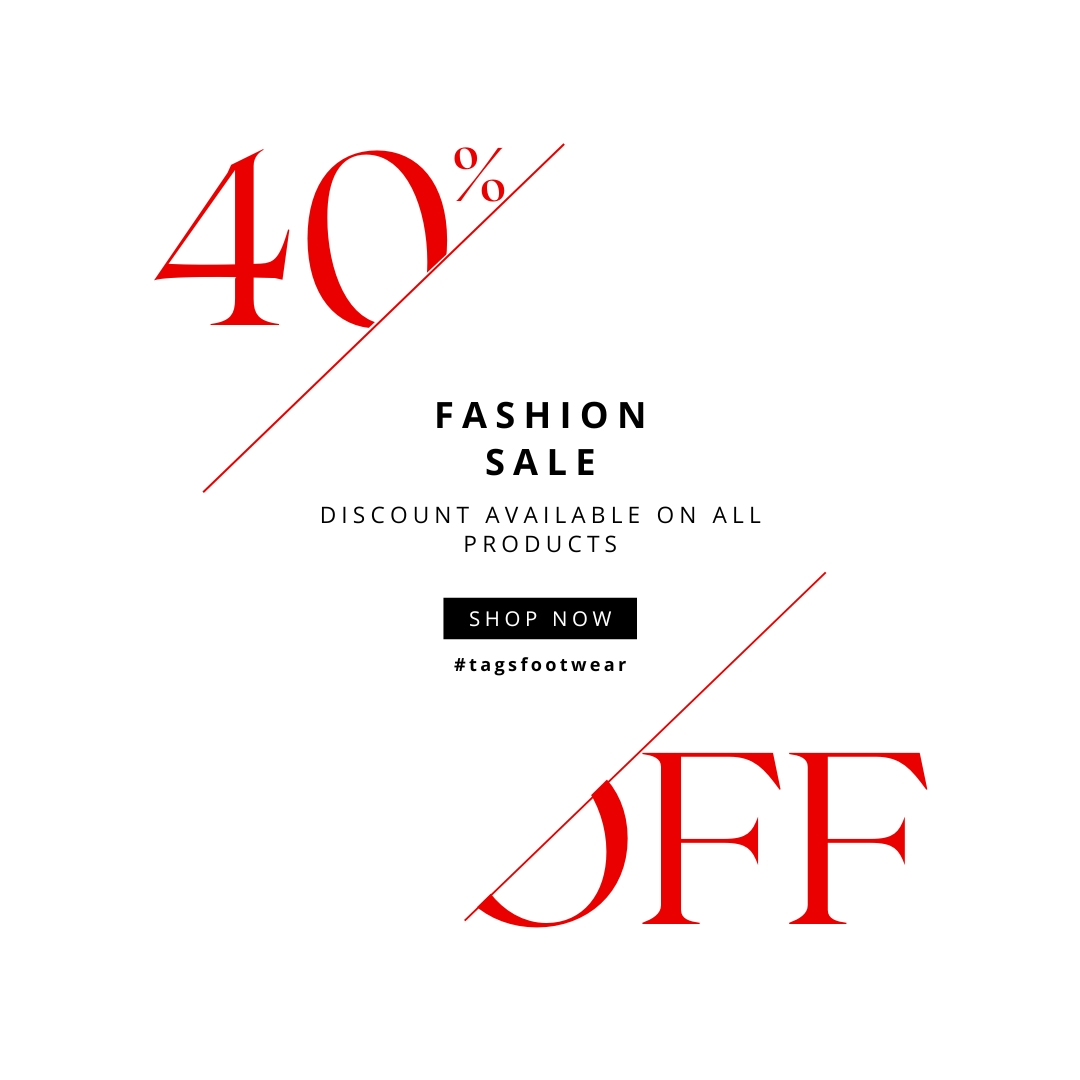
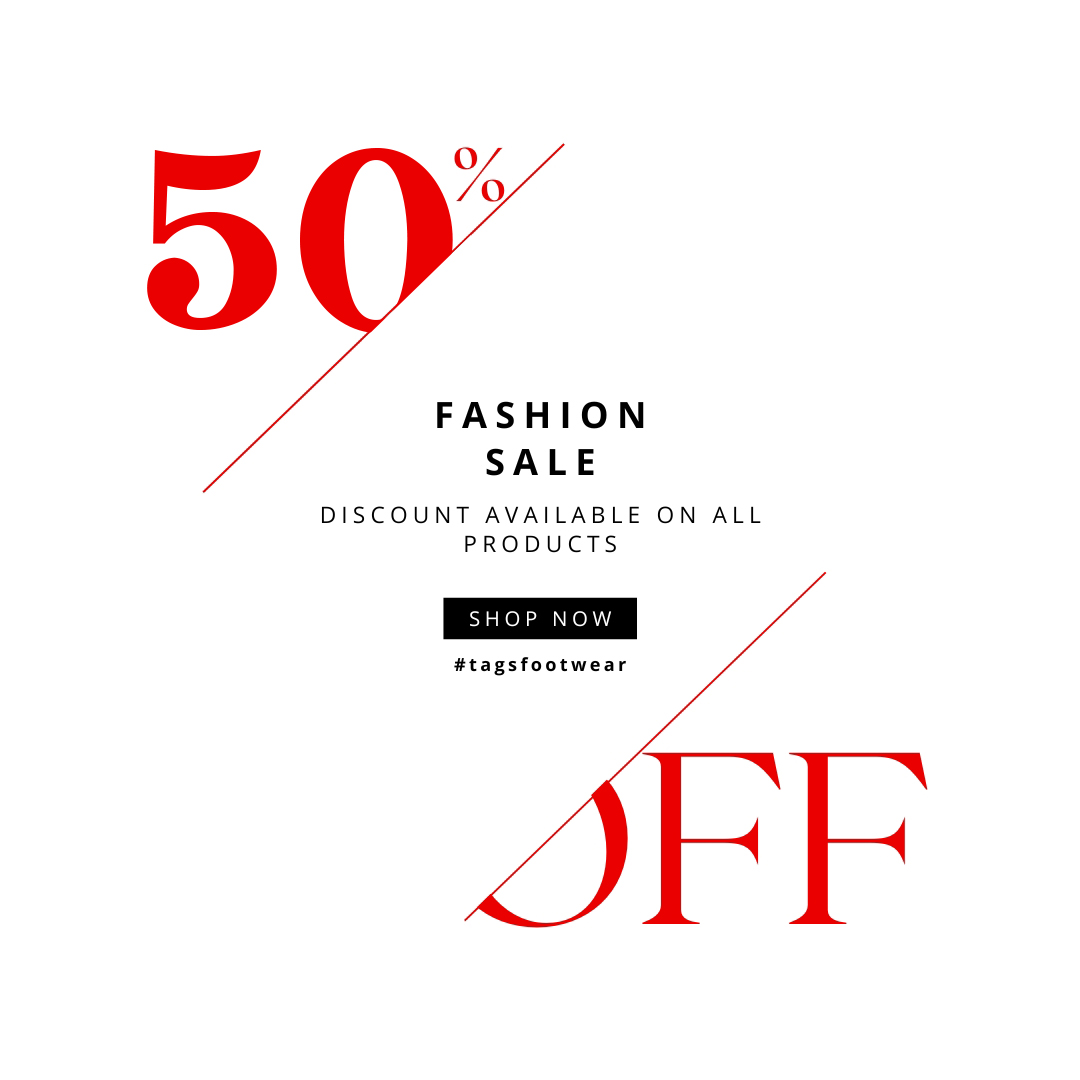
updated dscount

Changed region(s): [[0.1222, 0.1222, 0.3667, 0.3056], [0.3667, 0.1528, 0.4278, 0.275]]

diff --git a/src/components/Header/HeaderTop.jsx b/src/components/Header/HeaderTop.jsx
@@ -25,7 +25,7 @@ const HeaderTop = () => {
               <div className="text-center">
                 <div id="news-flash" className="d-inline-block">
                   <ul>
-                    <li style={{fontSize:25,padding:10}}>40% discount on every type of footwear</li>
+                    <li style={{fontSize:20,padding:10}}><span style={{fontSize:25,padding:10}}>50%</span>discount on every type of footwear</li>
                     {/* <li>Supper Value Deals - Save more with coupons</li> */}
                     {/* <li>Trendy 25silver jewelry, save up 35% off today</li> */}
                   </ul>

diff --git a/src/pages/product.jsx b/src/pages/product.jsx
@@ -41,9 +41,10 @@ const Product = () => {
   const productSizesAvailable = product?.sizesAvailable;
   const productColorsAvailable = product?.colorsAvailable;
 
-  const productPrice = productDiscount
-    ? productSellingPrice * (1 - productDiscount / 100)
-    : productSellingPrice * (1 - globalDiscount / 100);
+  const productPrice = product?.discount
+  ? Math.round(product?.SellingPrice * (1 - product?.discount / 100))
+  : Math.round(product?.SellingPrice * (1 - globalDiscount / 100));
+
 
   const handleproductImageChange = async (color, index) => {
     // console.log(color);

diff --git a/src/components/ProductCard.jsx b/src/components/ProductCard.jsx
@@ -31,8 +31,11 @@ const ProductCard = ({ product, toasterHandler }) => {
   };
 
   const productPrice = product.discount
-    ? product.SellingPrice * (1 - product.discount / 100)
-    : product.SellingPrice * (1 - globalDiscount / 100);
+  ? Math.round(product.SellingPrice * (1 - product.discount / 100))
+  : Math.round(product.SellingPrice * (1 - globalDiscount / 100));
+
+
+
 
   
   return (

diff --git a/src/utils/baseUrl.js b/src/utils/baseUrl.js
@@ -1,9 +1,9 @@
-// export const baseUrl="https://tags-footwear-backend-1.onrender.com"
+
 
 export const baseUrl= "https://dev.tagsfootwear.com";
 
-// export const baseUrl="https://tags-footwear-backend-1.onrender.com"
+
 
 // export const baseUrl = "http://localhost:5000";
 
-export const discount="40";
+export const discount="50";
